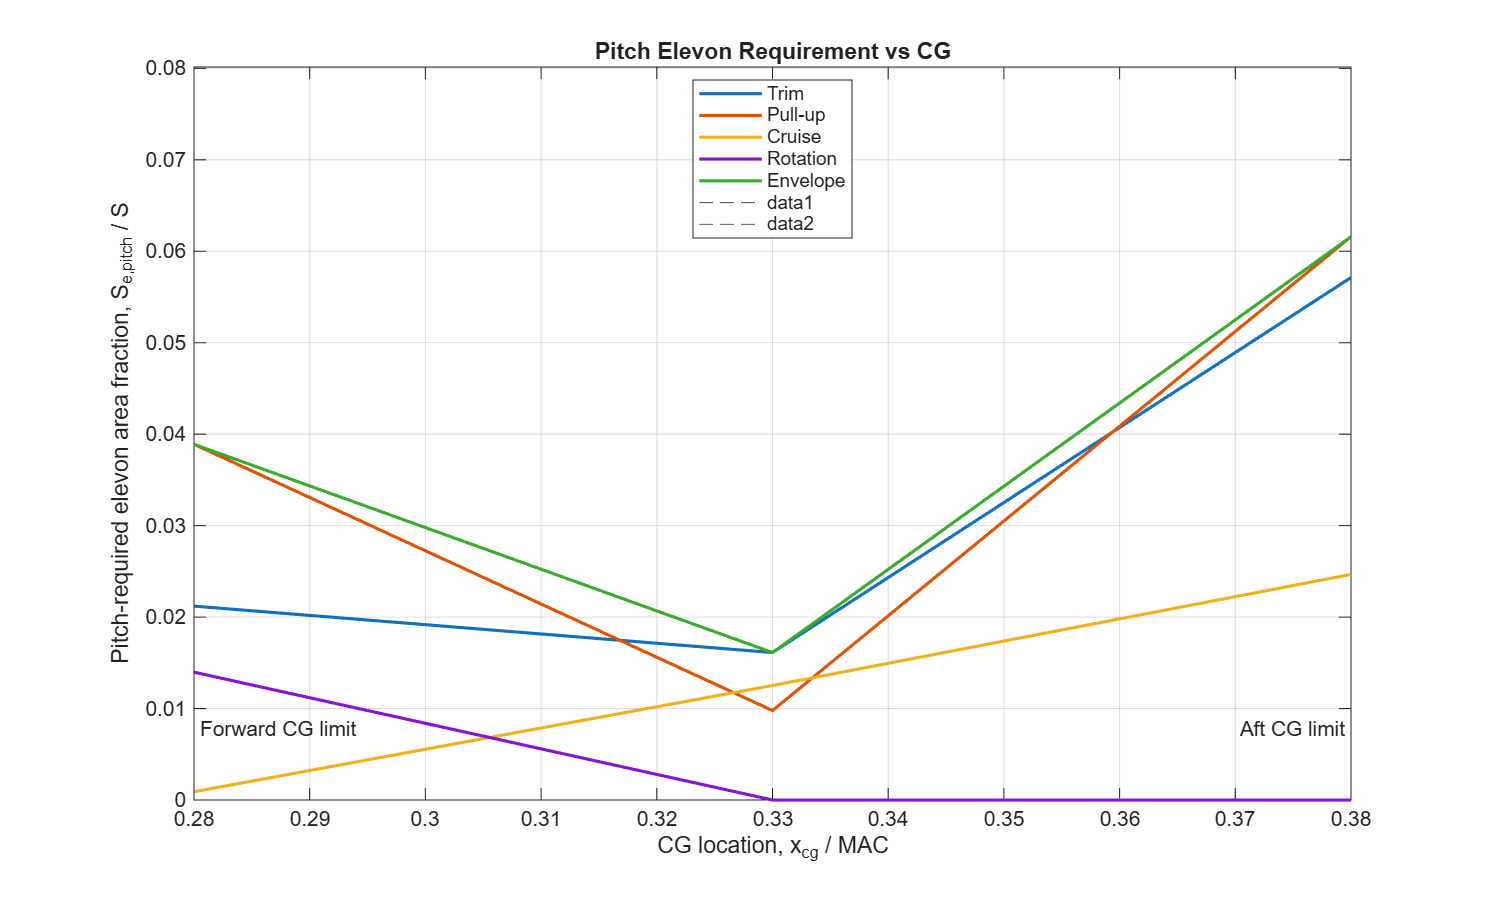
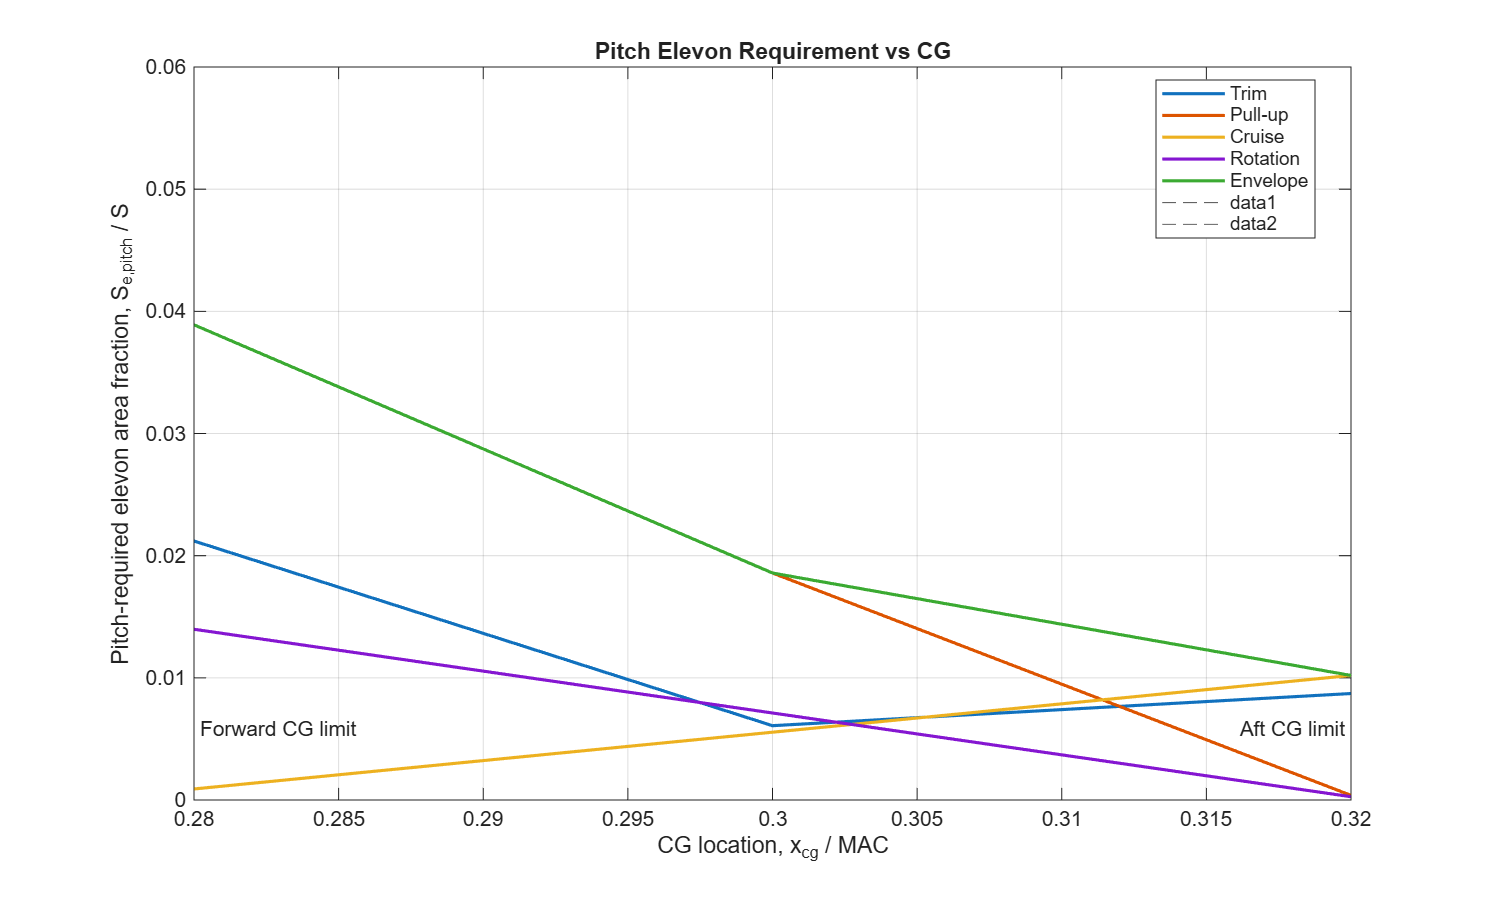
Clarify shared elevon overlay plot

diff --git a/+DynamicsPkg/PlotSharedElevonAreas.m b/+DynamicsPkg/PlotSharedElevonAreas.m
@@ -35,20 +35,20 @@ plot([0, HalfSpan * FtPerM], [0, 0], "k", "LineWidth", 1.2);
 area(AvailableHalfSpan, AvailableChordFraction, ...
     "FaceColor", [0.82, 0.86, 0.90], "FaceAlpha", 0.35, "EdgeColor", [0.45, 0.48, 0.52], "LineWidth", 1.0);
 
-DrawSegmentBand(PitchOnlySegments, [0.20, 0.45, 0.85], FtPerM, 0, MaxPanelSpanFt);
-DrawSegmentBand(DualSegments, [0.20, 0.70, 0.55], FtPerM, 0, MaxPanelSpanFt);
+DrawSegmentBand(PitchOnlySegments, [0.20, 0.45, 0.85], FtPerM, 0, MaxPanelSpanFt, 0.85);
+DrawSegmentBand(DualSegments, [0.20, 0.70, 0.55], FtPerM, 0, MaxPanelSpanFt, 0.60);
 
-% Roll-only chord is drawn above the dual-use chord to show the shared
-% outboard chord budget. It is an adjacent chord allocation, not a second
-% surface stacked on top of the dual-use elevon.
-DrawSegmentBand(RollOnlySegments, [0.95, 0.62, 0.05], FtPerM, MaxSegmentChord(DualSegments), MaxPanelSpanFt);
+% Overlay roll-only panels on the same chord-fraction axis. The optimizer
+% still enforces DualChord + RollChord <= max chord; this plot shows role
+% overlap/usage, not physically stacked chord.
+DrawSegmentBand(RollOnlySegments, [0.95, 0.62, 0.05], FtPerM, 0, MaxPanelSpanFt, 0.45);
 patch([RudderIn, RudderOut, RudderOut, RudderIn], ...
     [0, 0, Sizing.Rudder.ChordFraction, Sizing.Rudder.ChordFraction], ...
     [0.55, 0.25, 0.70], "FaceAlpha", 0.85, "EdgeColor", [0.05, 0.12, 0.18], "LineWidth", 1.2);
 
 PitchLabel = SegmentLabelPoint(PitchOnlySegments, FtPerM, 0);
 DualLabel = SegmentLabelPoint(DualSegments, FtPerM, 0);
-RollLabel = SegmentLabelPoint(RollOnlySegments, FtPerM, MaxSegmentChord(DualSegments));
+RollLabel = SegmentLabelPoint(RollOnlySegments, FtPerM, 0);
 
 if ~isempty(PitchLabel)
     text(PitchLabel(1), PitchLabel(2) + 0.015, ...
@@ -84,7 +84,7 @@ Segments = SegmentsIn(Keep);
 
 end
 
-function DrawSegmentBand(Segments, FaceColor, FtPerM, ChordOffset, MaxPanelSpanFt)
+function DrawSegmentBand(Segments, FaceColor, FtPerM, ChordOffset, MaxPanelSpanFt, FaceAlpha)
 % Draw contiguous optimizer cells as one physical control surface band.
 
 if isempty(Segments)
@@ -110,7 +110,7 @@ for iband = 1:BandId(end)
         PanelOut = min(PanelIn + MaxPanelSpanFt, BandOut);
         patch([PanelIn, PanelOut, PanelOut, PanelIn], ...
             ChordOffset + [0, 0, BandChord, BandChord], ...
-            FaceColor, "FaceAlpha", 0.85, "EdgeColor", [0.05, 0.12, 0.18], "LineWidth", 1.2);
+            FaceColor, "FaceAlpha", FaceAlpha, "EdgeColor", [0.05, 0.12, 0.18], "LineWidth", 1.2);
         PanelIn = PanelOut;
     end
 end

diff --git a/+DynamicsPkg/BWB_Dynamics_Demo.m b/+DynamicsPkg/BWB_Dynamics_Demo.m
@@ -93,9 +93,11 @@ Aircraft.Specs.Weight.MLW = LandingWeightFraction * Aircraft.Specs.Weight.MTOW;
 Aircraft.Specs.Dynamics.Geometry.cbar = Aircraft.Specs.Aero.S / Aircraft.Specs.Dynamics.Geometry.b;
 Aircraft.Specs.Dynamics.Inertia.Ixx = BaselineIxx * (Aircraft.Specs.Dynamics.Geometry.b / BaselineSpan) ^ 2;
 
-% CG and main-gear locations are nondimensionalized by MAC.
+% Demo CG and main-gear locations are nondimensionalized by MAC. These CG
+% limits are assumed for the placeholder BWB aero model, not derived from a
+% mass-properties/loading envelope.
 Aircraft.Specs.Dynamics.CG.ForwardMAC = 0.28;
-Aircraft.Specs.Dynamics.CG.AftMAC = 0.38;
+Aircraft.Specs.Dynamics.CG.AftMAC = 0.32;
 Aircraft.Specs.Dynamics.Gear.XmlgMAC = 0.36;
 
 %% FAST PRE-PROCESSING %%
